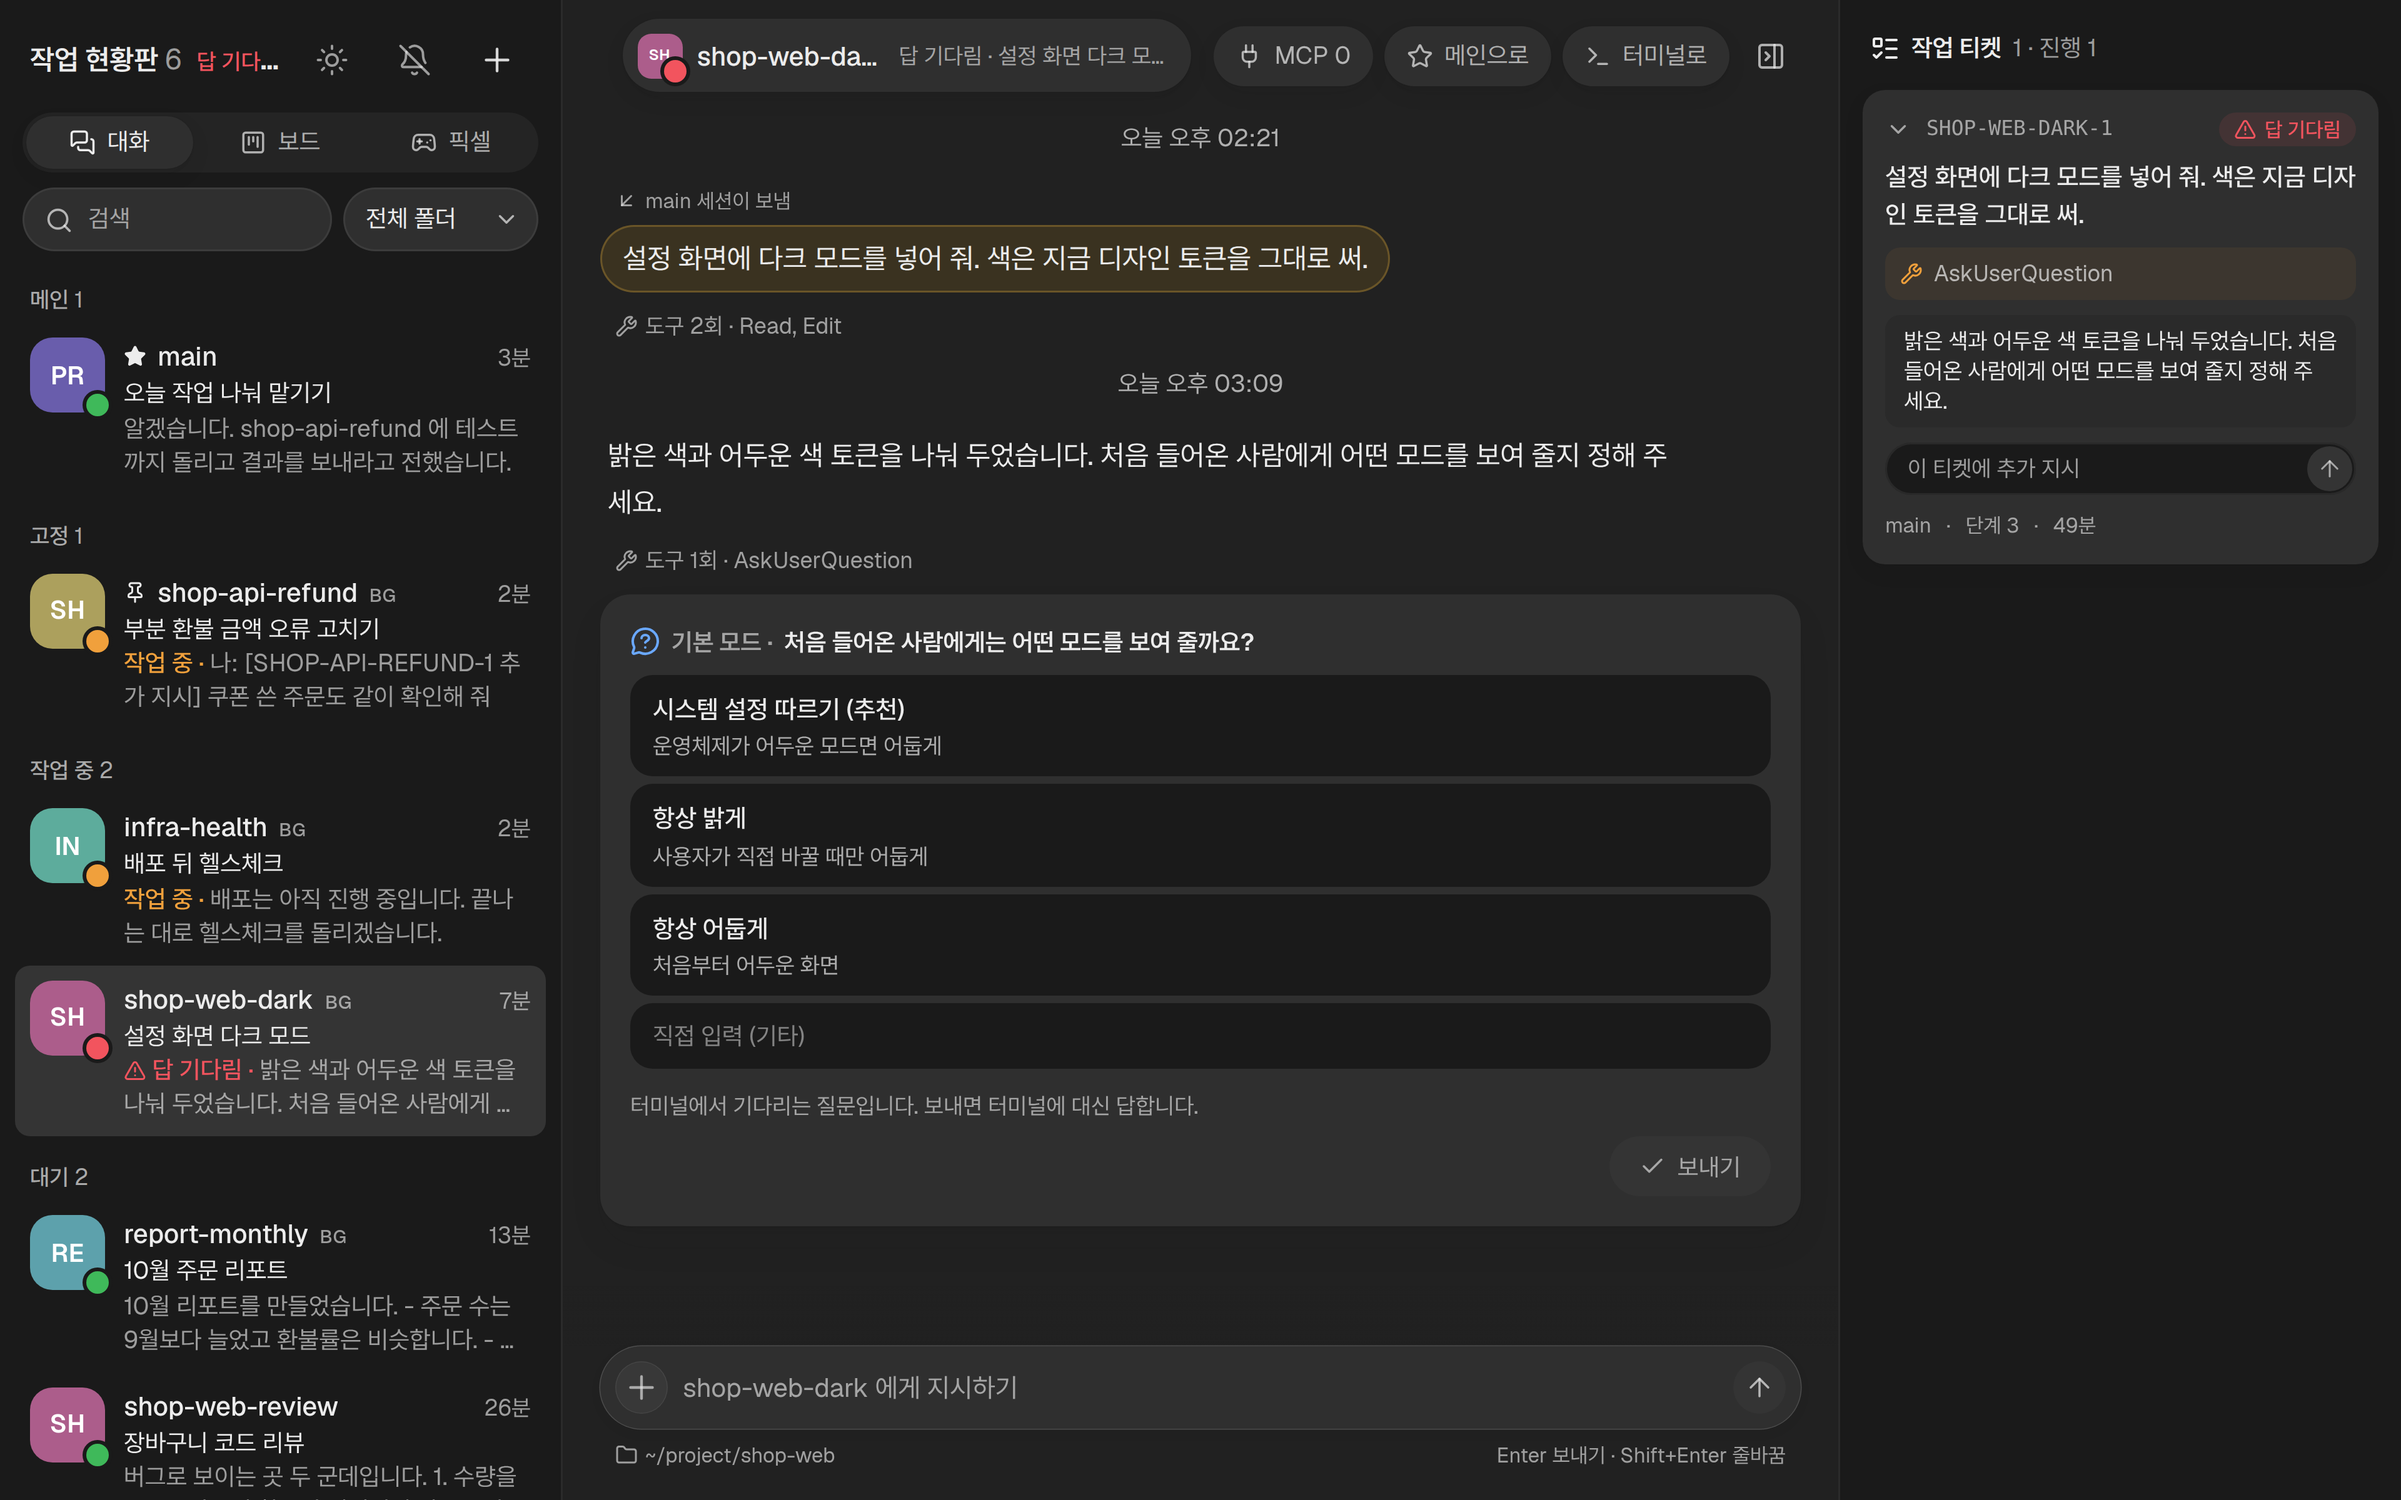
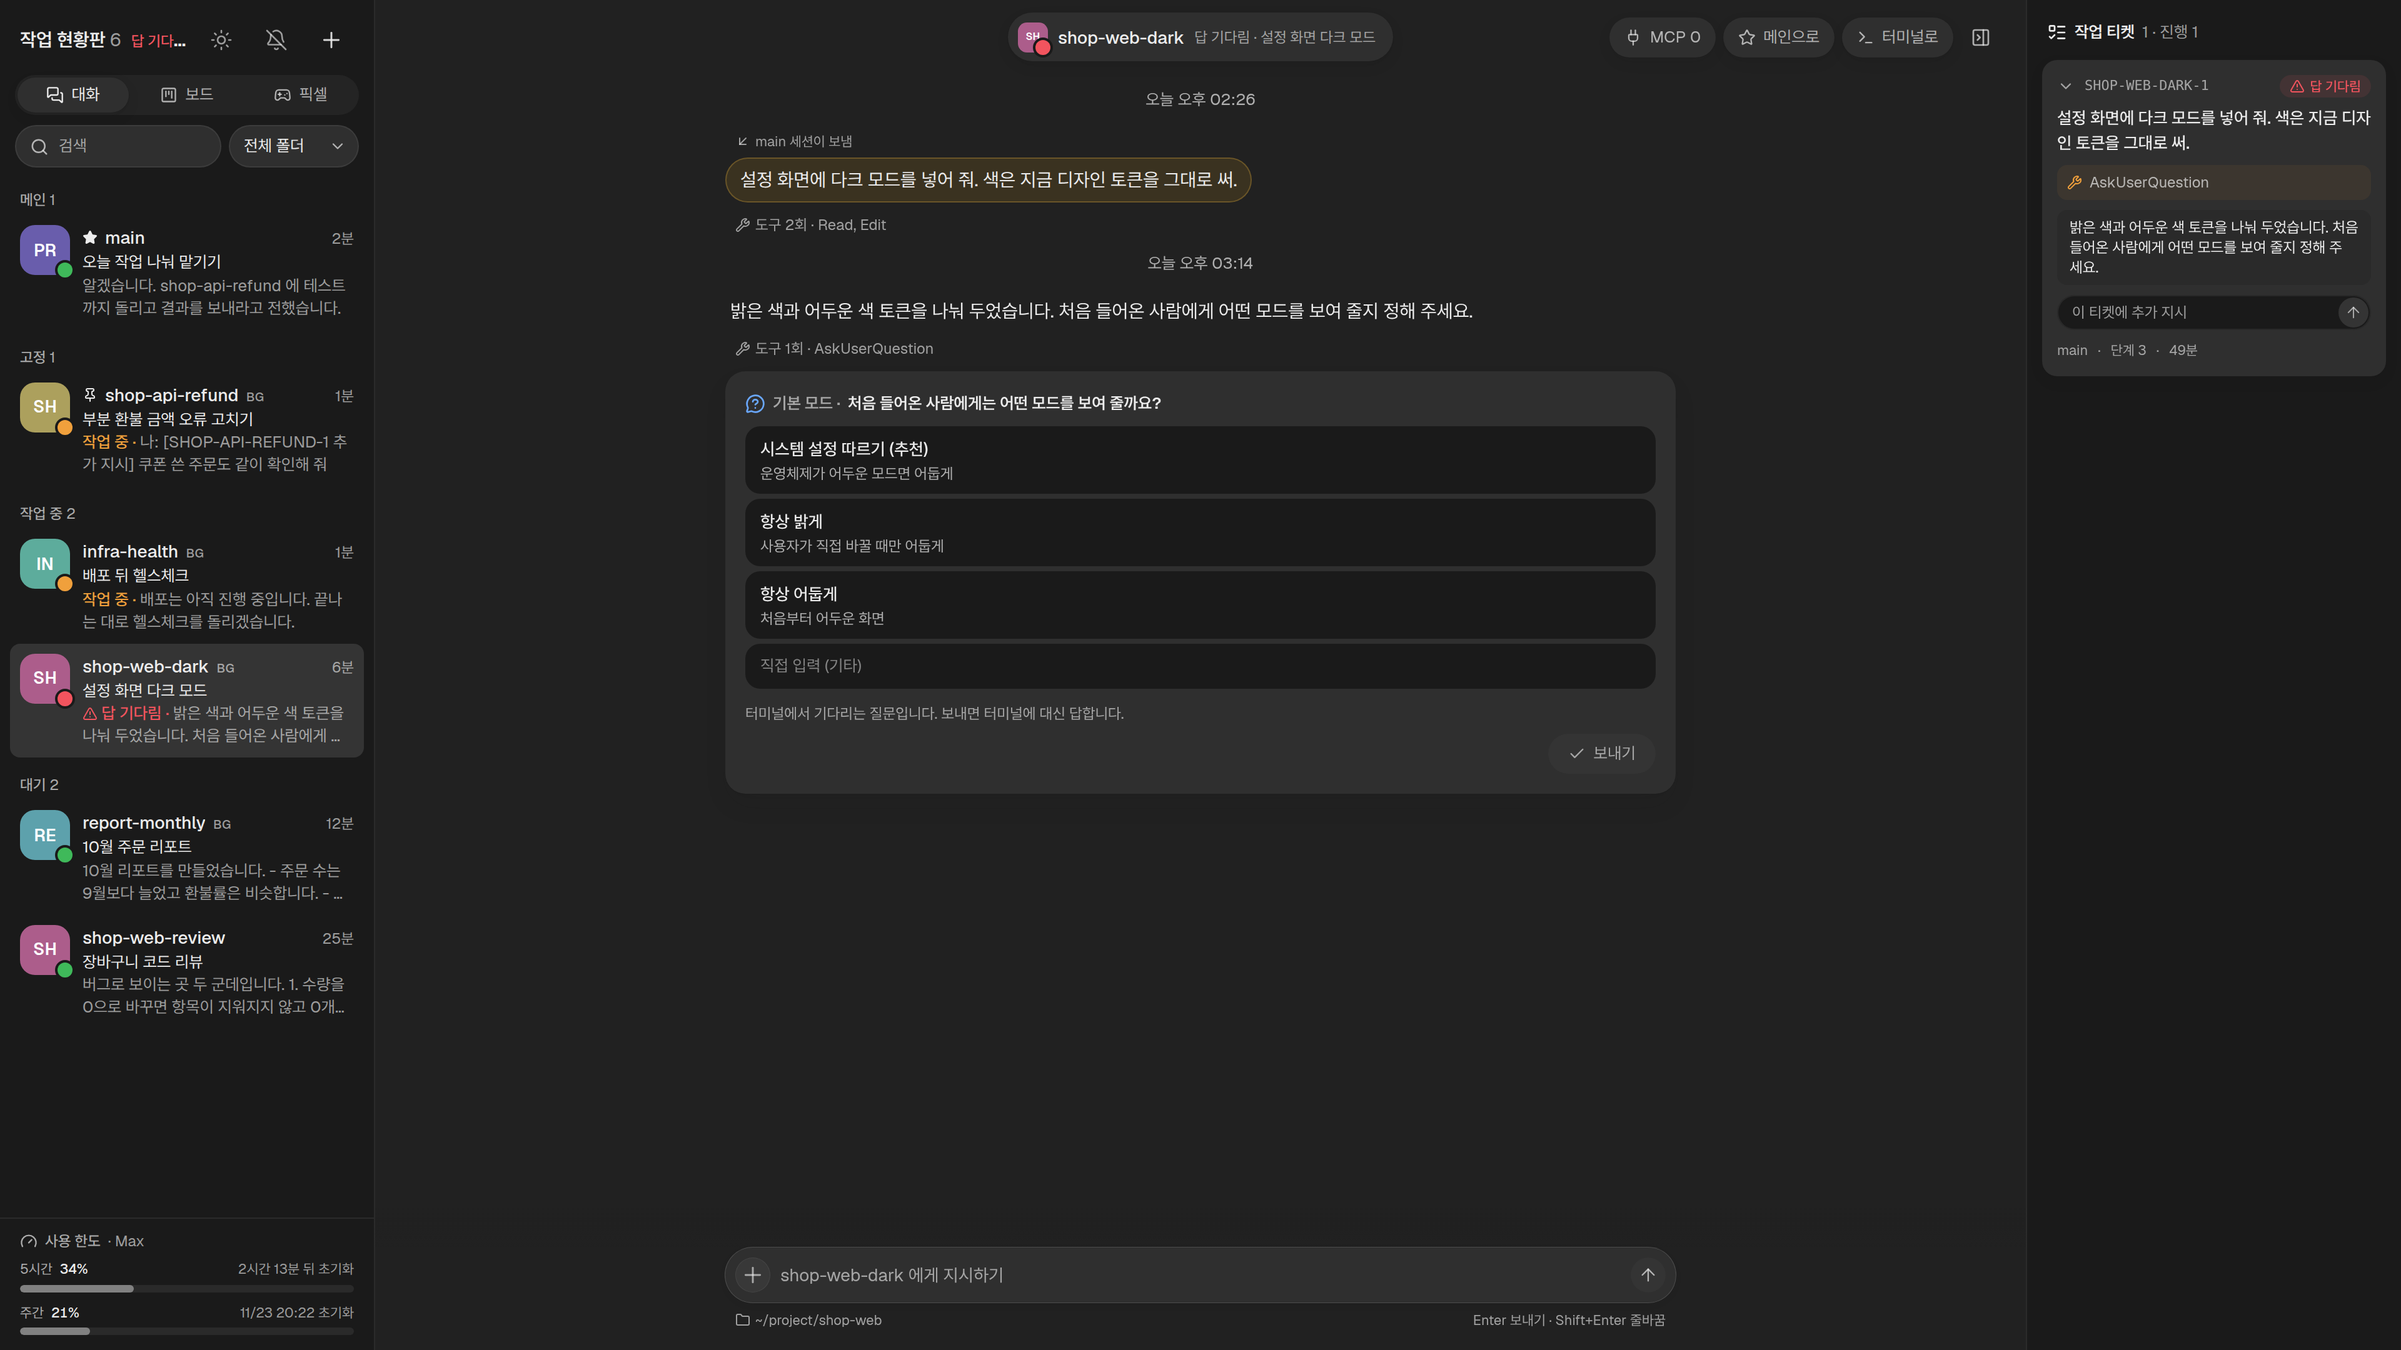
content(session-dashboard): 캡처를 1920 폭으로, 사용 한도와 바로 지시 장면 추가
1280 폭은 화면이 확대돼 보여 다른 글과 같은 1920x1080 배율 2로 다시
찍었다. 사용자 요청으로 왼쪽 아래 사용 한도를 보이게 하고(가짜 홈이라
시연용 값), 픽셀 사무실은 사람을 눌러 지시 카드를 연 장면으로 바꿨다.

diff --git a/src/content/ai.ts b/src/content/ai.ts
@@ -60,7 +60,7 @@ export const aiWorks: Build[] = [
       { type: 'paragraph', text: 'Claude Code 세션 여러 개에 일을 나눠 맡길 때 쓰는 작업 현황판입니다. 세션마다 무엇을 하고 있는지 한 화면에서 보고, 지시를 보내고, 질문에 답합니다.' },
       { type: 'paragraph', text: '저장소마다, 일마다 세션을 따로 띄우다 보니 어느 세션이 끝났고 어느 세션이 답을 기다리는지 터미널 창을 넘겨 가며 확인해야 했기 때문입니다.' },
       { type: 'heading', text: '대화' },
-      { type: 'paragraph', text: '왼쪽에는 떠 있는 세션을 메인, 고정, 작업 중, 대기로 나눠 두고 세션마다 마지막 지시와 답을 보여 줍니다. 세션을 고르면 가운데에 대화가 열리고, 다른 세션이 보낸 메시지는 색을 달리해 누가 보냈는지 표시합니다.' },
+      { type: 'paragraph', text: '왼쪽에는 떠 있는 세션을 메인, 고정, 작업 중, 대기로 나눠 두고 세션마다 마지막 지시와 답을 보여 줍니다. 세션을 고르면 가운데에 대화가 열리고, 다른 세션이 보낸 메시지는 색을 달리해 누가 보냈는지 표시합니다. 왼쪽 아래에는 Claude Code 계정의 5시간, 주간 사용 한도를 띄워 둡니다.' },
       { type: 'paragraph', text: '현황판은 Claude Code가 남기는 세션 목록과 대화 기록 파일을 읽기만 합니다. 세션 쪽에 따로 설치하지 않아도 이미 떠 있는 세션이 그대로 보이게 하려는 것입니다.' },
       { type: 'paragraph', text: '보낸 지시는 Claude Code의 세션 간 메시지로 전달됩니다. 새 백그라운드 세션도 여기서 띄우고, 자주 같이 쓰는 세션은 묶음으로 저장해 한 번에 띄웁니다.' },
       { type: 'heading', text: '질문에 답하기' },
@@ -71,7 +71,7 @@ export const aiWorks: Build[] = [
       { type: 'image', src: '/projects/session-dashboard/315.png', alt: '보드 화면 - 진행 중, 답 기다림, 완료 세 칸에 세션별 작업 티켓과 지금 하는 일, 추가 지시 입력칸', caption: '보드 - 지시 하나가 티켓 하나' },
       { type: 'paragraph', text: '지시 하나를 티켓 하나로 보고, 모든 세션의 티켓을 진행 중, 답 기다림, 완료로 나눠 봅니다. 일감을 따로 적지 않아도 대화 기록에서 티켓이 만들어지고, 티켓에 보낸 추가 지시는 그 일에 이어 붙습니다.' },
       { type: 'heading', text: '픽셀 사무실' },
-      { type: 'image', src: '/projects/session-dashboard/316.png', alt: '픽셀 사무실 화면 - 일하는 세션은 책상에 앉아 있고, 답을 기다리는 세션은 자리에 서 있고, 쉬는 세션은 휴게 공간에 있는 모습', caption: '픽셀 - 세션마다 사람 하나' },
+      { type: 'image', src: '/projects/session-dashboard/316.png', alt: '픽셀 사무실 화면 - 일하는 세션은 책상에, 쉬는 세션은 휴게 공간에 있고, shop-api-refund 를 눌러 뜬 카드에 지금 하는 일과 지시 입력칸이 보이는 모습', caption: '픽셀 - 사람을 눌러 바로 지시하기' },
       { type: 'paragraph', text: '세션 상태를 사무실 그림으로도 봅니다. 일하는 세션은 책상에 앉고, 답을 기다리는 세션은 자리에 서 있고, 쉬는 세션은 휴게 공간에 있습니다. 사람을 누르면 그 세션에 바로 지시합니다.' },
       { type: 'heading', text: '보안' },
       { type: 'paragraph', text: '세션에 지시를 보낼 수 있는 화면이라 내 PC 안에서만 열고, 다른 사이트가 요청을 보내지 못하게 요청마다 주소와 전용 헤더를 확인합니다. 지시를 전달하는 데 쓰는 실행은 메시지를 보내는 도구만 쓰게 묶었습니다.' },

diff --git a/src/content/imageDims.ts b/src/content/imageDims.ts
@@ -187,10 +187,10 @@ export const imageDims: Record<string, { w: number; h: number }> = {
   '/projects/pms/69.png': { w: 3840, h: 2160 },
   '/projects/pms/70.png': { w: 3840, h: 2160 },
   '/projects/pms/72.png': { w: 3840, h: 2160 },
-  '/projects/session-dashboard/313.png': { w: 3840, h: 2400 },
-  '/projects/session-dashboard/314.png': { w: 3840, h: 2400 },
-  '/projects/session-dashboard/315.png': { w: 3840, h: 2400 },
-  '/projects/session-dashboard/316.png': { w: 3840, h: 2400 },
+  '/projects/session-dashboard/313.png': { w: 3840, h: 2160 },
+  '/projects/session-dashboard/314.png': { w: 3840, h: 2160 },
+  '/projects/session-dashboard/315.png': { w: 3840, h: 2160 },
+  '/projects/session-dashboard/316.png': { w: 3840, h: 2160 },
   '/projects/shared-editor-viewer/202.png': { w: 3840, h: 2160 },
   '/projects/shared-editor-viewer/203.png': { w: 2080, h: 1016 },
   '/projects/shared-editor-viewer/204.png': { w: 2880, h: 1800 },
